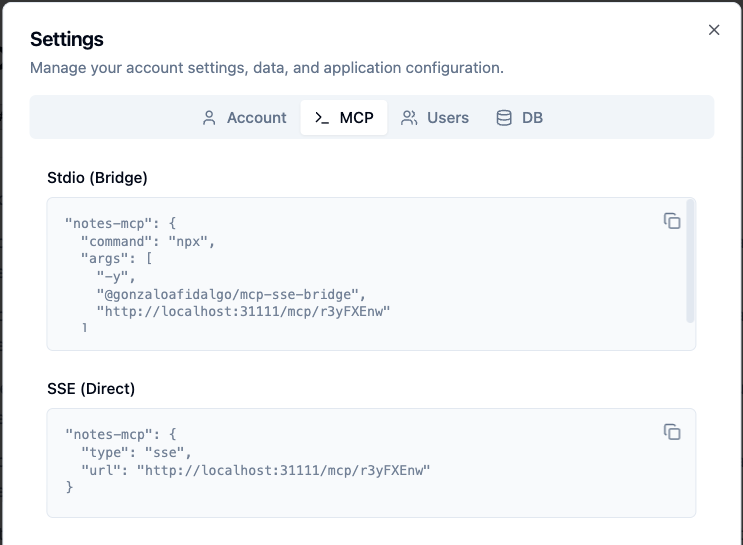
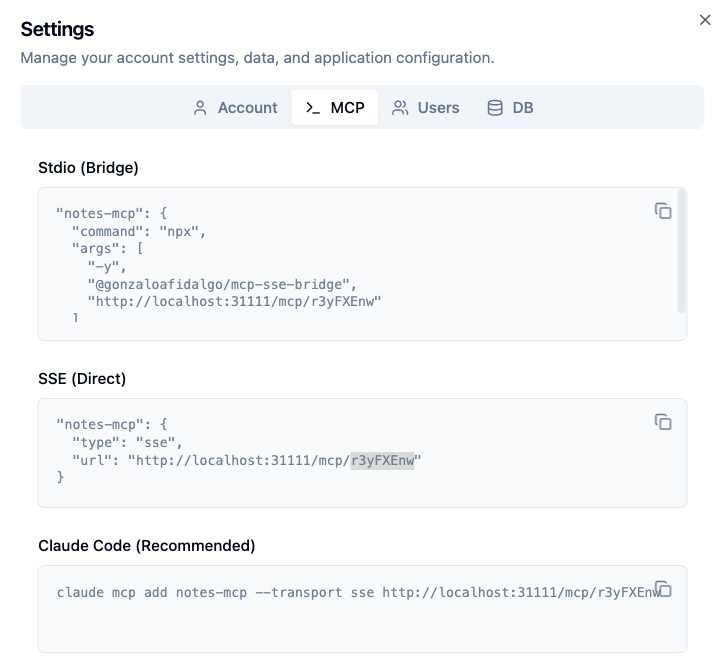
feat: Consolidate MCP configuration into Settings dialog, add Claude CLI instructions, and introduce SECURITY.md.

diff --git a/frontend/src/components/SettingsDialog.jsx b/frontend/src/components/SettingsDialog.jsx
@@ -599,6 +599,40 @@ export default function SettingsDialog({
                     </div>
                  </div>
 
+                 {/* Claude Code Block */}
+                 <div>
+                    <h3 className="text-sm font-medium mb-2">Claude Code (Recommended)</h3>
+                    <div className="relative">
+                        <ScrollArea className="h-[80px] w-full rounded-md border p-4 font-mono text-xs bg-muted/50 text-muted-foreground/90">
+                            <pre>
+claude mcp add notes-mcp --transport sse {window.location.origin}/mcp/{userWithApiKey?.api_key || currentUser?.apiKey} --scope user
+                            </pre>
+                        </ScrollArea>
+                         <Button
+                            size="icon"
+                            variant="ghost"
+                            className="absolute top-2 right-2 h-7 w-7 text-muted-foreground hover:bg-background z-10"
+                            onClick={() => {
+                                const text = `claude mcp add notes-mcp --transport sse ${window.location.origin}/mcp/${userWithApiKey?.api_key || currentUser?.apiKey} --scope user`;
+                                const success = copy(text);
+                                if (success) {
+                                  // Reuse existing state or add new one? 
+                                  // Let's just use sseCopied for now or add a new state.
+                                  // Actually, let's create a new state for clarity or just show "Copied" toast style.
+                                  // For simplicity in this patch, I'll use a new state if I could, but I can't add state easily in replace.
+                                  // I'll reuse setSseCopied for visual feedback since it's close enough or just rely on the button visual.
+                                  // Wait, I can't easily add state variables in `replace_file_content` if they are defined at top of component.
+                                  // I will just use the clipboard copy and maybe flash the SSE button or just assume user sees it.
+                                  // Better: uses a simple nice-to-have visual, but functional copy is key.
+                                  setSseCopied(true); setTimeout(() => setSseCopied(false), 2000);
+                                }
+                            }}
+                        >
+                            {sseCopied ? <Check className="h-3.5 w-3.5" /> : <Copy className="h-3.5 w-3.5" />}
+                        </Button>
+                    </div>
+                 </div>
+
                </div>
              ) : (
                 <div className="flex items-center justify-center h-40 text-muted-foreground">

diff --git a/README.md b/README.md
@@ -41,12 +41,7 @@ Since this is a multi-user web app, you first need to create a user account.
 2. Switch to the **MCP** tab to find your connection information.
 3. You will see an **API Key**.
    > **Note:** This API Key is solely for identifying your user account within this local app. It is **not** related to any paid commercial service.
-4. Copy the MCP configuration and paste it into your AI Agent, or set up Claude Code via command line:
-
-```bash
-claude mcp add notes-mcp --transport sse http://localhost:31111/mcp/YOUR_API_KEY
-```
-*(Replace `YOUR_API_KEY` with the key found in the MCP tab)*
+4. Copy the MCP configuration and paste it into your AI Agent's MCP config, or set up Claude Code via command line:
 
 ### 4. Ask Your Agent
 
@@ -110,11 +105,20 @@ Since this application is built on Docker and Node.js, it runs on all major plat
 
 This application acts as an MCP Server.
 
-**Supported & Tested on:**
-- **Claude Code**: Stdio and SSE supported.
-- **Cursor**: Stdio and SSE supported.
-- **Antigravity**: Stdio supported.
-- **Other Clients**: Most MCP clients should work with the SSE endpoint.
+### Setup Recommendations
+
+1.  **Use SSE Config First**: We recommend using the SSE transport URL (`http://localhost:31111/mcp/YOUR_API_KEY`) whenever possible.
+2.  **Stdio Fallback**: If SSE is not working for your client, use Stdio.
+
+> **Windows Users**: Use SSE if possible. If you need to use Stdio, you must install **Node.js** so that the `npx` command becomes available.
+
+### Client Support & Known Issues
+
+- **Antigravity**: Does not support SSE right now. You must use Stdio.
+- **Cursor**: Supports both SSE and Stdio.
+- **Claude Code**: Supports both SSE and Stdio.
+- **Other Clients**: Most should work with the SSE endpoint.
+
 
 
 ## Project Structure
@@ -145,7 +149,12 @@ local-notes-mcp/
  ```
  
  ### Can I connect to the server from another computer?
- Yes, you can connect to the server from another computer on the same local network using the server's IP address. However, note that **connecting via VPN or complex network setups might cause instability** with some MCP clients due to timeouts. If you experience issues, try connecting from the same machine or ensure a stable direct local connection.
+ Yes, you can connect to the server from another computer on the same local network using the server's IP address.
+
+For example, if your host computer's IP is `192.168.68.16`, you can access the app from another device at:
+`http://192.168.68.16:31111`
+
+**Note:** Connecting via VPN or complex network setups might cause instability with some MCP clients due to timeouts. If you experience issues, try connecting from the same machine or ensure a stable direct local connection.
  
  ## License
 

diff --git a/SECURITY.md b/SECURITY.md
@@ -1,0 +1,22 @@
+# Security Policy
+
+## Supported Versions
+
+Use this section to tell people about which versions of your project are currently being supported with security updates.
+
+| Version | Supported          |
+| ------- | ------------------ |
+| 1.0.x   | :white_check_mark: |
+| < 1.0   | :x:                |
+
+## Reporting a Vulnerability
+
+Use this section to tell people how to report a vulnerability.
+
+Please do not report security vulnerabilities through public GitHub issues.
+
+If you believe you have found a security vulnerability in Local Notes MCP, please report it to us as described below.
+
+**Please email packages@mchen.lab**
+
+You should receive a response within 24 hours. If for some reason you do not, please follow up via email to ensure we received your original message.
